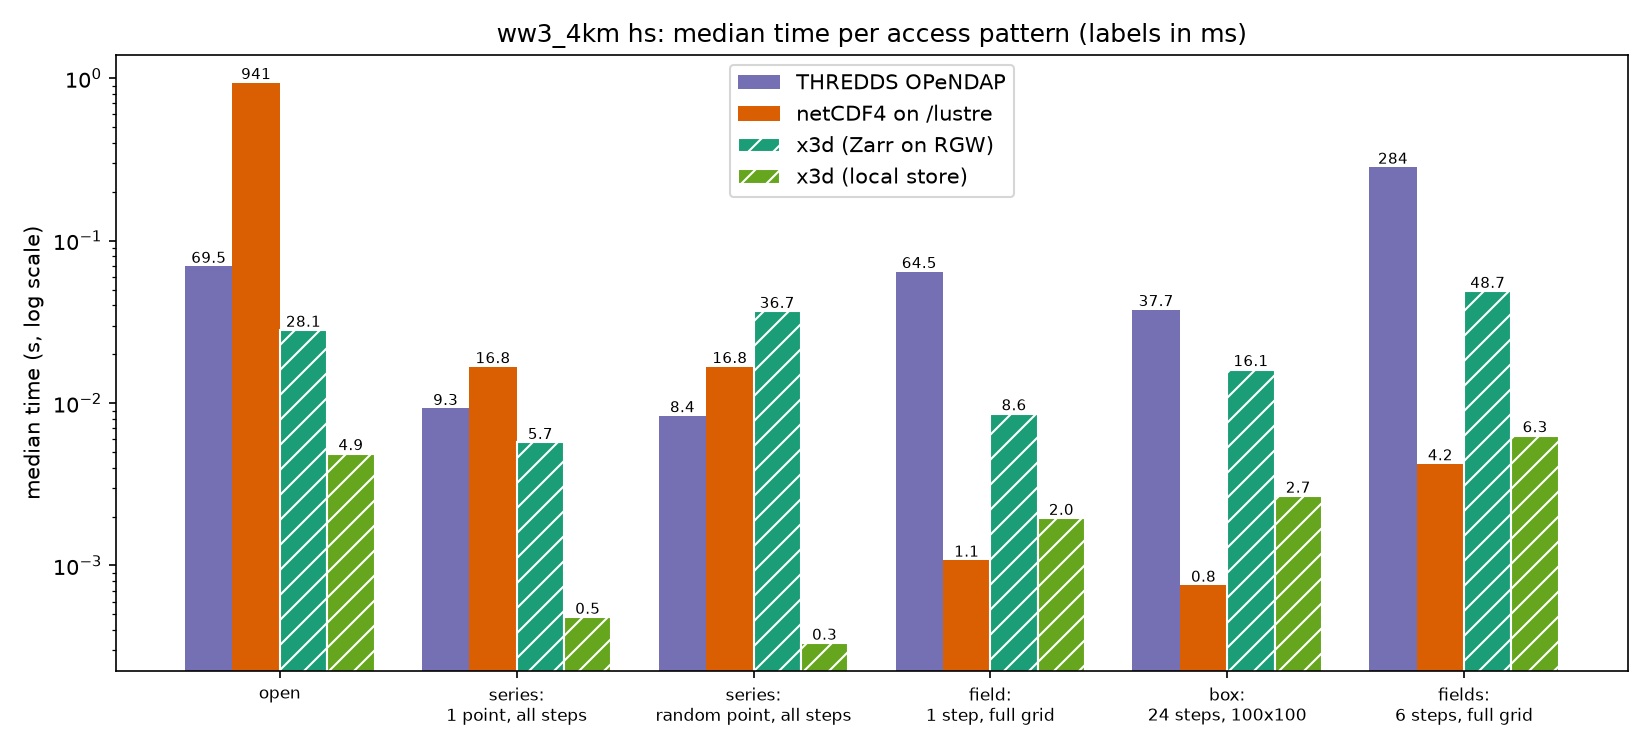
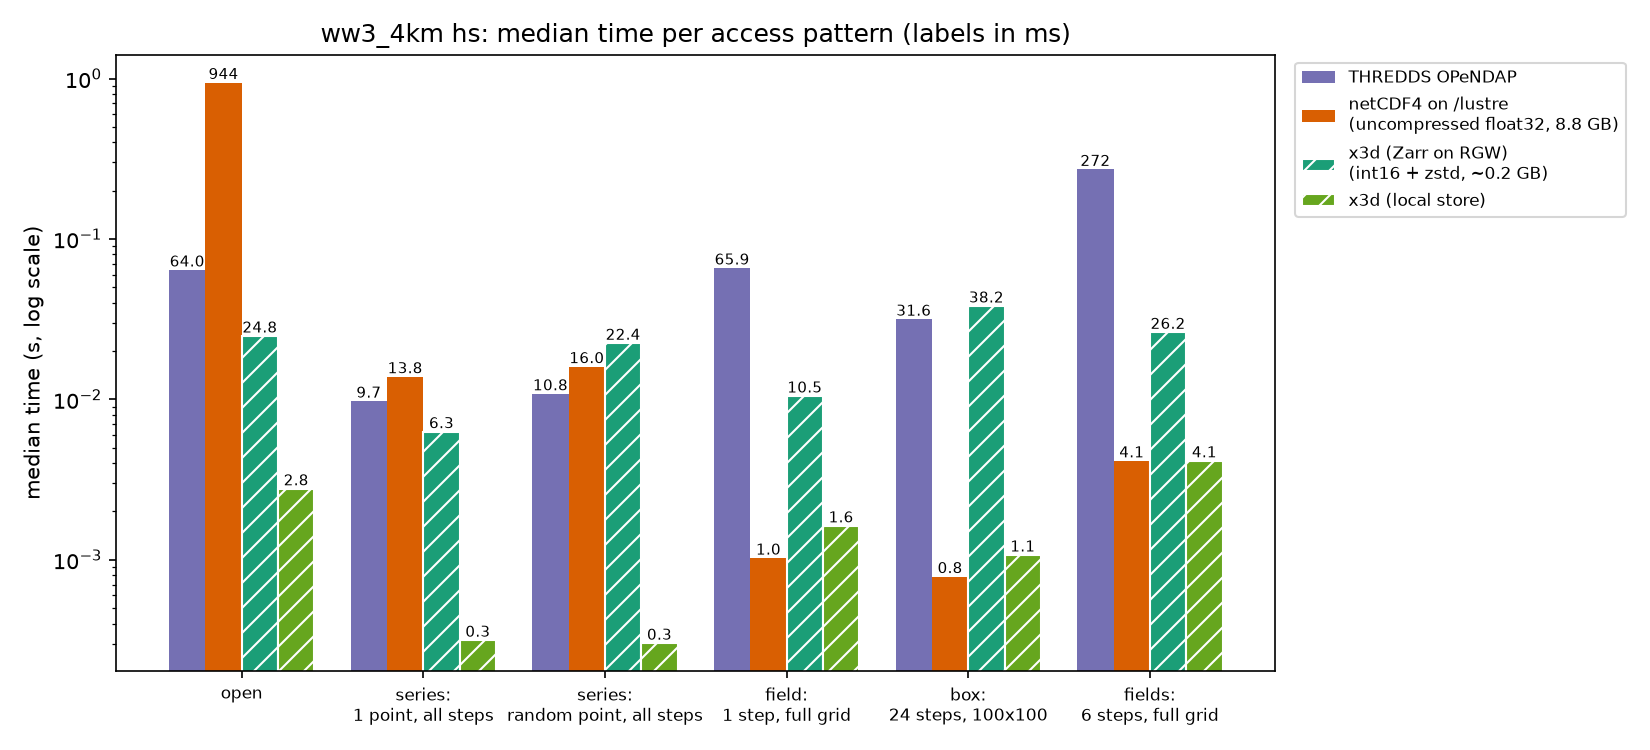
Benchmark legend: note /lustre file is uncompressed (not like-for-like)

diff --git a/tests/test_benchmark.py b/tests/test_benchmark.py
@@ -51,7 +51,7 @@ SCENARIOS = {
     "fields: 6 steps, full grid": lambda ds: ds.hs.isel(time=slice(0, 6)).values,
 }
 BACKENDS = ("thredds", "lustre", "x3d", "x3d-local")
-LABELS = {"thredds": "THREDDS OPeNDAP", "lustre": "netCDF4 on /lustre", "x3d": "x3d (Zarr on RGW)", "x3d-local": "x3d (local store)"}
+LABELS = {"thredds": "THREDDS OPeNDAP", "lustre": "netCDF4 on /lustre\n(uncompressed float32, 8.8 GB)", "x3d": "x3d (Zarr on RGW)\n(int16 + zstd, ~0.2 GB)", "x3d-local": "x3d (local store)"}
 COLORS = {"thredds": "#7570b3", "lustre": "#d95f02", "x3d": "#1b9e77", "x3d-local": "#66a61e"}
 
 results: dict[tuple[str, str], float] = {}
@@ -138,7 +138,7 @@ def plot_at_end():
     ax.set_ylabel("median time (s, log scale)")
     ax.set_xticks(range(len(names)), [n.replace(": ", ":\n") for n in names], fontsize=8)
     ax.set_title("ww3_4km hs: median time per access pattern (labels in ms)")
-    ax.legend()
+    ax.legend(loc="upper left", bbox_to_anchor=(1.01, 1.0), fontsize=8)
     fig.tight_layout()
     OUT.mkdir(exist_ok=True)
     fig.savefig(OUT / "thredds_vs_x3d.png", dpi=150)

diff --git a/README.md b/README.md
@@ -59,7 +59,8 @@ Tests (`tests/`):
   `ww3_4km_<date>T00Z.nc` below `X3D_LUSTRE_ROOT`, or `X3D_LUSTRE_FILE`), x3d on RGW and x3d on the local store
   (`x3d+file://`, `X3D_TEST_STORE`); unavailable ones are skipped. Scenarios: open, point series (fixed and random
   point), field, box, several fields. Each round opens the dataset anew (not timed). The two file-based backends
-  are only cold in the first round (later rounds hit the OS page cache), so read them as best case. The local x3d reads are CPU-bound (zstd) on a thread pool, and the pause between
+  are only cold in the first round (later rounds hit the OS page cache), so read them as best case. The /lustre file is uncompressed float32 (8.8 GB, one field per chunk), so netCDF4 does
+  no decoding and is not a like-for-like comparison with the int16 + zstd store (~0.2 GB); the plot legend says so. The local x3d reads are CPU-bound (zstd) on a thread pool, and the pause between
   rounds roughly doubles them (a 100x100x24 box: 1.0 ms back to back, 2.2 ms after a 0.3 s pause; 7 ms on one
   thread), so the plot is the idle-start figure. Benchmarking is
   disabled by default (`addopts = --benchmark-disable`: each case runs once as a plain test); `--benchmark-enable`
